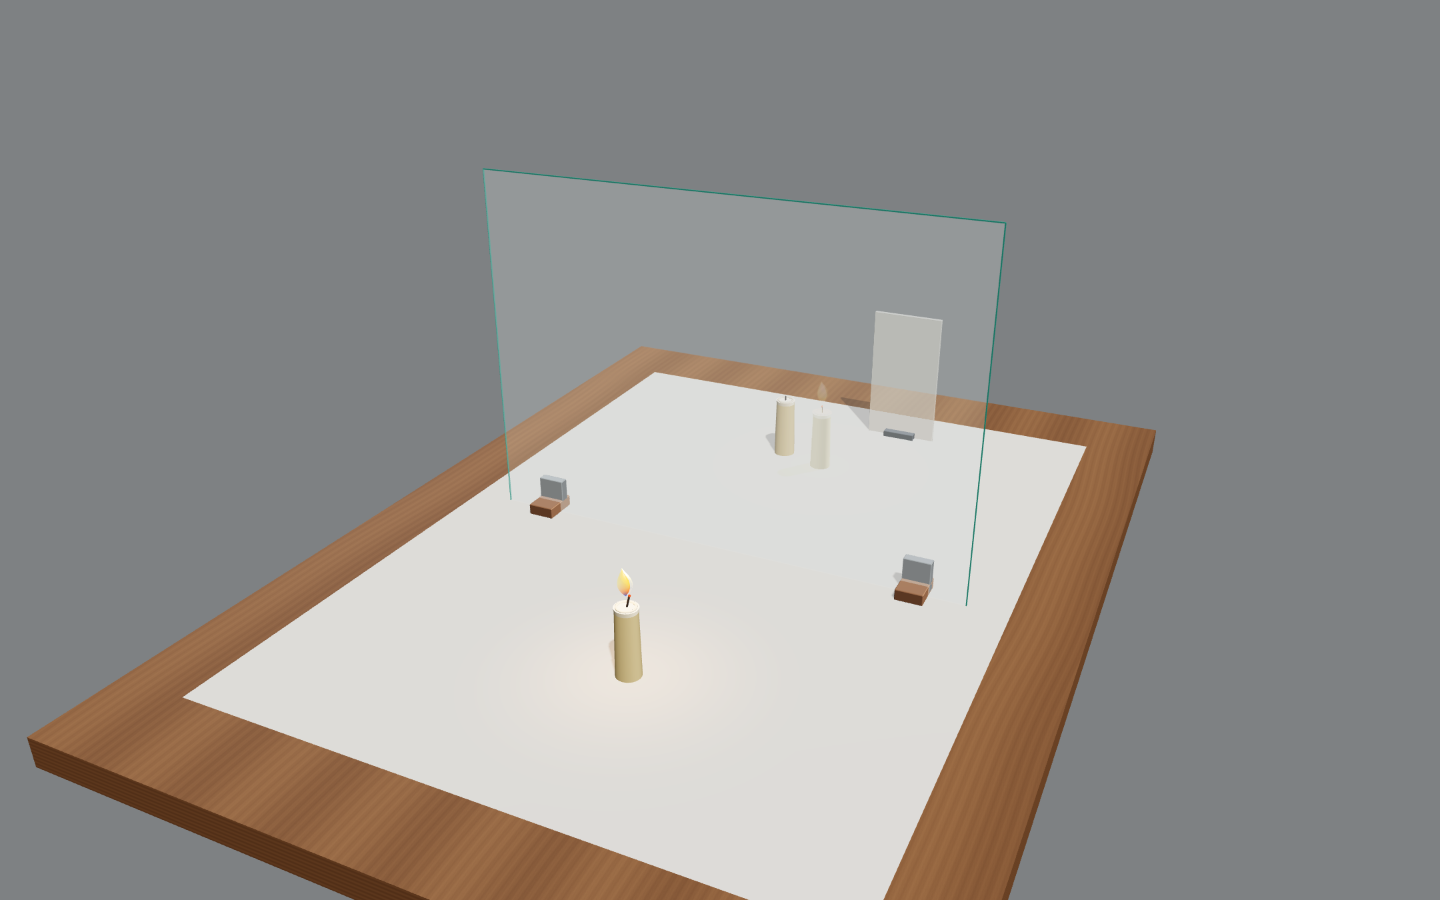
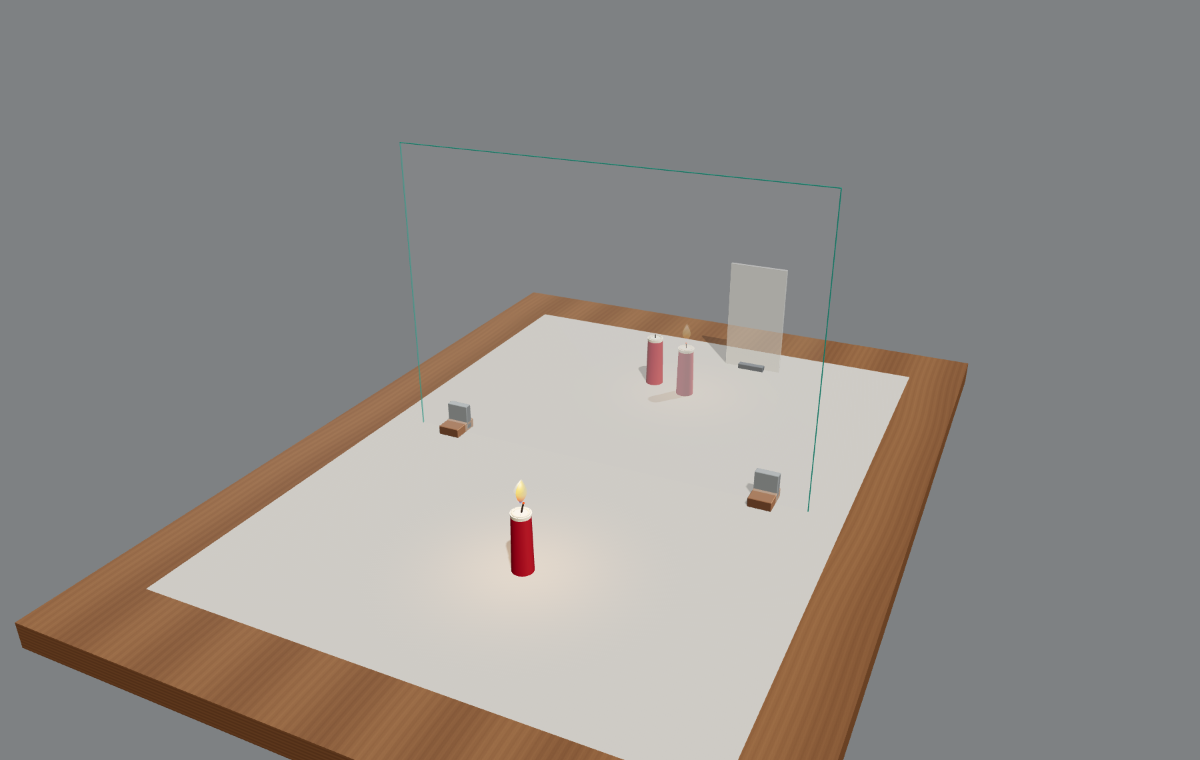
Restore clear mirror reflections, red wax candles and softer paper in plane mirror lab

diff --git a/models/plane-mirror.html b/models/plane-mirror.html
@@ -366,12 +366,19 @@ function makePaperTexture(grid) {
   const c = document.createElement('canvas');
   c.width = c.height = 1024;
   const g = c.getContext('2d');
-  g.fillStyle = '#f5f4ee';
+  // Slight warm gray paper: preserve headroom for lighting and reflections.
+  g.fillStyle = '#d5d2cb';
   g.fillRect(0, 0, 1024, 1024);
+  const fibers = g.getImageData(0, 0, 1024, 1024);
+  for (let i = 0; i < fibers.data.length; i += 4) {
+    const n = Math.sin(i * 0.137) * 0.75;
+    fibers.data[i] += n; fibers.data[i + 1] += n; fibers.data[i + 2] += n;
+  }
+  g.putImageData(fibers, 0, 0);
   if (grid) {
     const stepX = 1024 / PAPER_W;
     const stepZ = 1024 / PAPER_D;
-    g.strokeStyle = '#c5cdd8';
+    g.strokeStyle = '#a9aaa7';
     g.lineWidth = 1;
     for (let i = 0; i <= PAPER_W; i++) {
       const x = i * stepX;
@@ -381,7 +388,7 @@ function makePaperTexture(grid) {
       const y = j * stepZ;
       g.beginPath(); g.moveTo(0, y); g.lineTo(1024, y); g.stroke();
     }
-    g.strokeStyle = '#9aa8b8';
+    g.strokeStyle = '#858b8c';
     g.lineWidth = 1.5;
     for (let i = 0; i <= PAPER_W; i += 5) {
       const x = i * stepX;
@@ -407,7 +414,7 @@ table.receiveShadow = true;
 table.castShadow = true;
 scene.add(table);
 
-const paperMat = new THREE.MeshStandardMaterial({ map: makePaperTexture(false), roughness: 0.94, bumpMap: microTexture, bumpScale: 0.00007, envMapIntensity: 0.12 });
+const paperMat = new THREE.MeshStandardMaterial({ map: makePaperTexture(false), roughness: 0.97, bumpMap: microTexture, bumpScale: 0.00007, envMapIntensity: 0.08 });
 const paper = new THREE.Mesh(new THREE.PlaneGeometry(PAPER_W * CM, PAPER_D * CM), paperMat);
 paper.rotation.x = -Math.PI / 2;
 paper.position.y = PAPER_Y;
@@ -495,7 +502,7 @@ function makeReflector(colorHex) {
     .replace('uniform vec3 color;', 'uniform vec3 color;\n\tuniform float opacity;')
     .replace(
       'gl_FragColor = vec4( blendOverlay( base.rgb, color ), 1.0 );',
-      'gl_FragColor = vec4( blendOverlay( base.rgb, color ), opacity );'
+      'gl_FragColor = vec4( base.rgb * color, opacity );'
     );
   ref.userData.setOpacity = (v) => { ref.material.uniforms.opacity.value = v; };
 
@@ -514,6 +521,10 @@ function makeReflector(colorHex) {
     const wasSA = supportA.visible;
     const wasSB = supportB.visible;
     const wasOverlay = overlayRoot.visible;
+    const wasGlass = glassVolume.visible;
+    const wasEdges = glassEdges.visible;
+    const wasOutline = edgeOutline.visible;
+    glassVolume.visible = glassEdges.visible = edgeOutline.visible = false;
     // 平面镜正面绘制反射时暂时藏起深色背板与支架，避免透黑/黑块
     if (state.material === 'mirror') opaqueBack.visible = false;
     supportA.visible = false;
@@ -525,6 +536,9 @@ function makeReflector(colorHex) {
     supportA.visible = wasSA;
     supportB.visible = wasSB;
     overlayRoot.visible = wasOverlay;
+    glassVolume.visible = wasGlass;
+    glassEdges.visible = wasEdges;
+    edgeOutline.visible = wasOutline;
     renderer.setClearColor(prevColor, prevAlpha);
   };
   return ref;
@@ -632,7 +646,7 @@ function createCandle(lit) {
   const g = new THREE.Group();
   const body = new THREE.Mesh(
     new THREE.CylinderGeometry(0.028, 0.032, BODY_H, 64),
-    new THREE.MeshStandardMaterial({ color: 0xdfc78e, roughness: 0.58, bumpMap: microTexture, bumpScale: 0.0001, envMapIntensity: 0.3 })
+    new THREE.MeshStandardMaterial({ color: 0xb62d30, roughness: 0.61, bumpMap: microTexture, bumpScale: 0.0001, envMapIntensity: 0.3 })
   );
   body.position.y = BODY_H / 2;
   body.castShadow = true;
@@ -732,9 +746,19 @@ scene.add(drawRoot);
 function applyMaterialVisual() {
   const t = state.thickness;
   const ghost = Math.pow(t, 0.85);
-  glassEdges.visible = state.material !== 'mirror';
-  edgeOutline.material.color.set(state.material === 'tea' ? 0x826232 : 0x418d80);
-  edgeMaterial.color.set(state.material === 'tea' ? 0x826232 : 0x398879);
+  const isMirror = state.material === 'mirror';
+  glassEdges.visible = true;
+  edgeOutline.material.color.set(isMirror ? 0x9ca5aa : state.material === 'tea' ? 0x826232 : 0x418d80);
+  edgeMaterial.color.set(isMirror ? 0xa9b2b8 : state.material === 'tea' ? 0x826232 : 0x398879);
+  edgeMaterial.metalness = isMirror ? 0.75 : 0;
+  edgeMaterial.roughness = isMirror ? 0.38 : 0.19;
+  edgeMaterial.opacity = isMirror ? 1 : 0.82;
+  edgeOutline.material.opacity = isMirror ? 0.88 : 0.72;
+  if (frontReflector.material.transparent === isMirror) {
+    frontReflector.material.transparent = !isMirror;
+    frontReflector.material.needsUpdate = true;
+  }
+  frontReflector.material.depthWrite = isMirror;
 
   if (state.material === 'mirror') {
     glassVolume.visible = false;
@@ -752,8 +776,8 @@ function applyMaterialVisual() {
     glassVolume.material.opacity = 0.055 + t * 0.045;
     frontReflector.userData.setOpacity(0.36 + ghost * 0.12);
     backReflector.userData.setOpacity(0.13 + ghost * 0.27);
-    frontReflector.material.uniforms.color.value.set(0xf4faf8);
-    backReflector.material.uniforms.color.value.set(0xeef7f2);
+    frontReflector.material.uniforms.color.value.set(0xffffff);
+    backReflector.material.uniforms.color.value.set(0xf5faf8);
   } else {
     glassVolume.visible = true;
     opaqueBack.visible = false;
@@ -763,8 +787,8 @@ function applyMaterialVisual() {
     glassVolume.material.opacity = 0.18 + t * 0.16;
     frontReflector.userData.setOpacity(0.32 + ghost * 0.25);
     backReflector.userData.setOpacity(0.22 + ghost * 0.35);
-    frontReflector.material.uniforms.color.value.set(0xc4a050);
-    backReflector.material.uniforms.color.value.set(0xb89040);
+    frontReflector.material.uniforms.color.value.set(0xf0e2c9);
+    backReflector.material.uniforms.color.value.set(0xe7d4af);
   }
 }
 

diff --git a/catalog.js b/catalog.js
@@ -464,7 +464,7 @@ window.MODEL_CATALOG = [
   },
   {
     "id": "plane-mirror",
-    "cover": "assets/covers/plane-mirror.png?v=20261017-clear-materials",
+    "cover": "assets/covers/plane-mirror.png?v=20261017-red-mirror-v2",
     "title": "平面镜成像规律",
     "subtitle": "玻璃板、等大蜡烛与像的位置探究",
     "category": "光学现象",
@@ -475,7 +475,7 @@ window.MODEL_CATALOG = [
       "平面镜成像",
       "物像关系"
     ],
-    "path": "models/plane-mirror.html?v=20261017-clear-materials",
+    "path": "models/plane-mirror.html?v=20261017-red-mirror-v2",
     "symbol": "↔",
     "accent": "blue"
   },

diff --git a/index.html b/index.html
@@ -111,7 +111,7 @@
   </div>
 </section>
 
-<script src="catalog.js?v=20261017-optics-materials"></script>
+<script src="catalog.js?v=20261017-red-mirror-v2"></script>
 <script>
 (() => {
   const data = Array.isArray(window.MODEL_CATALOG) ? window.MODEL_CATALOG : [];
